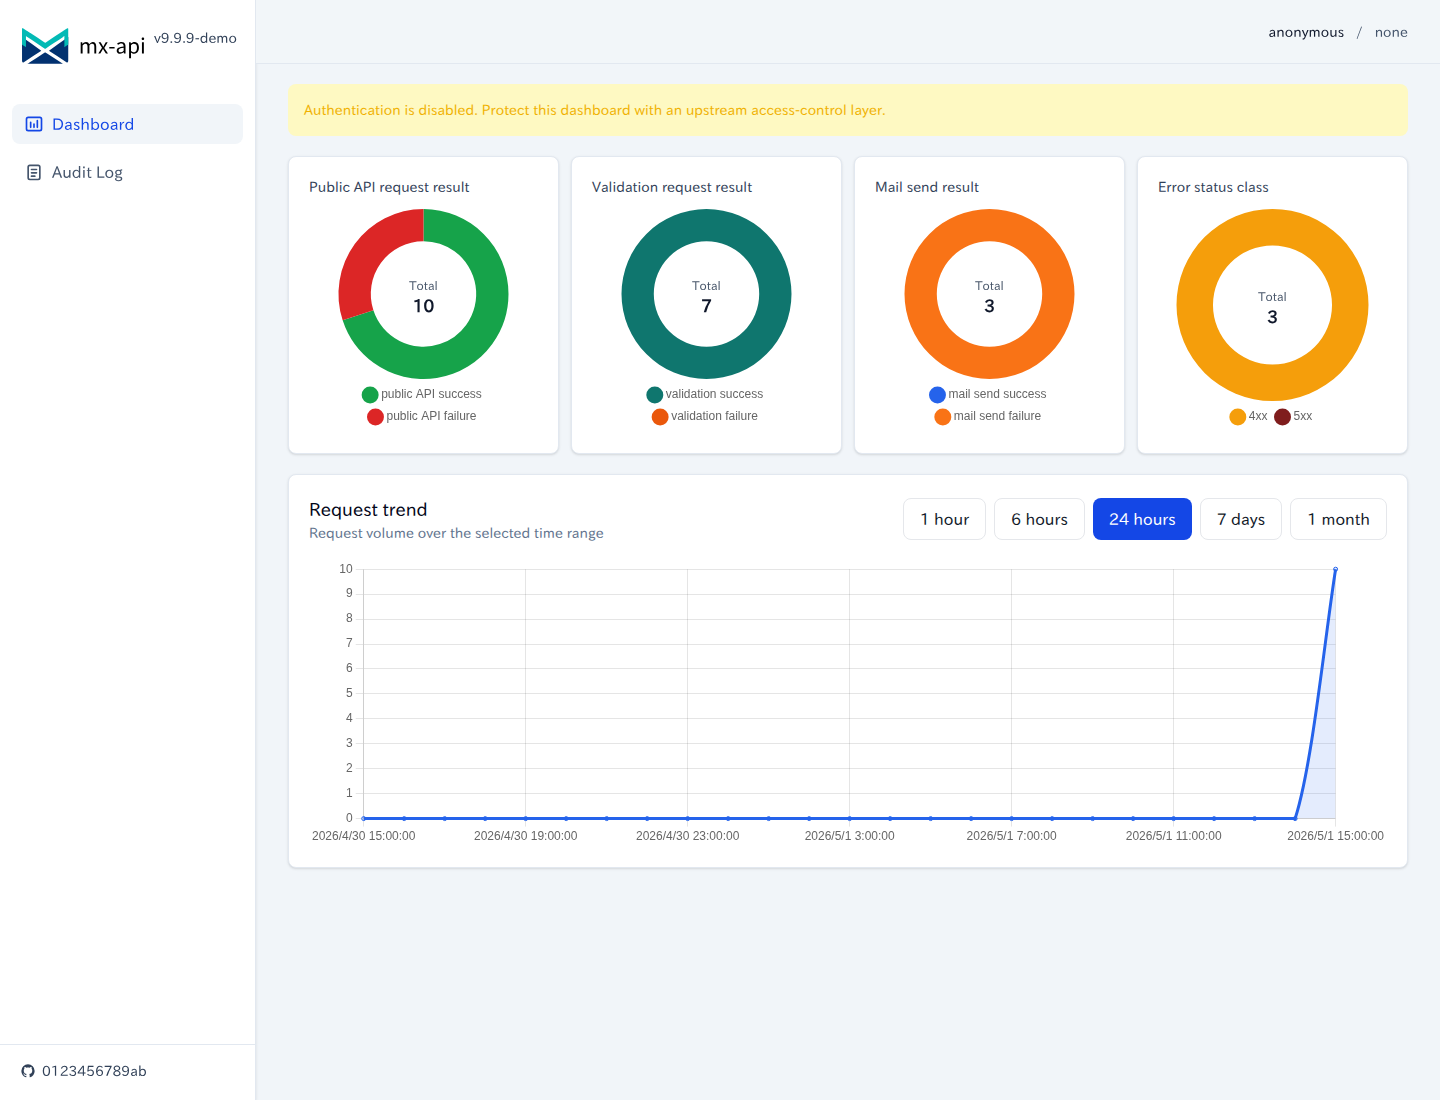
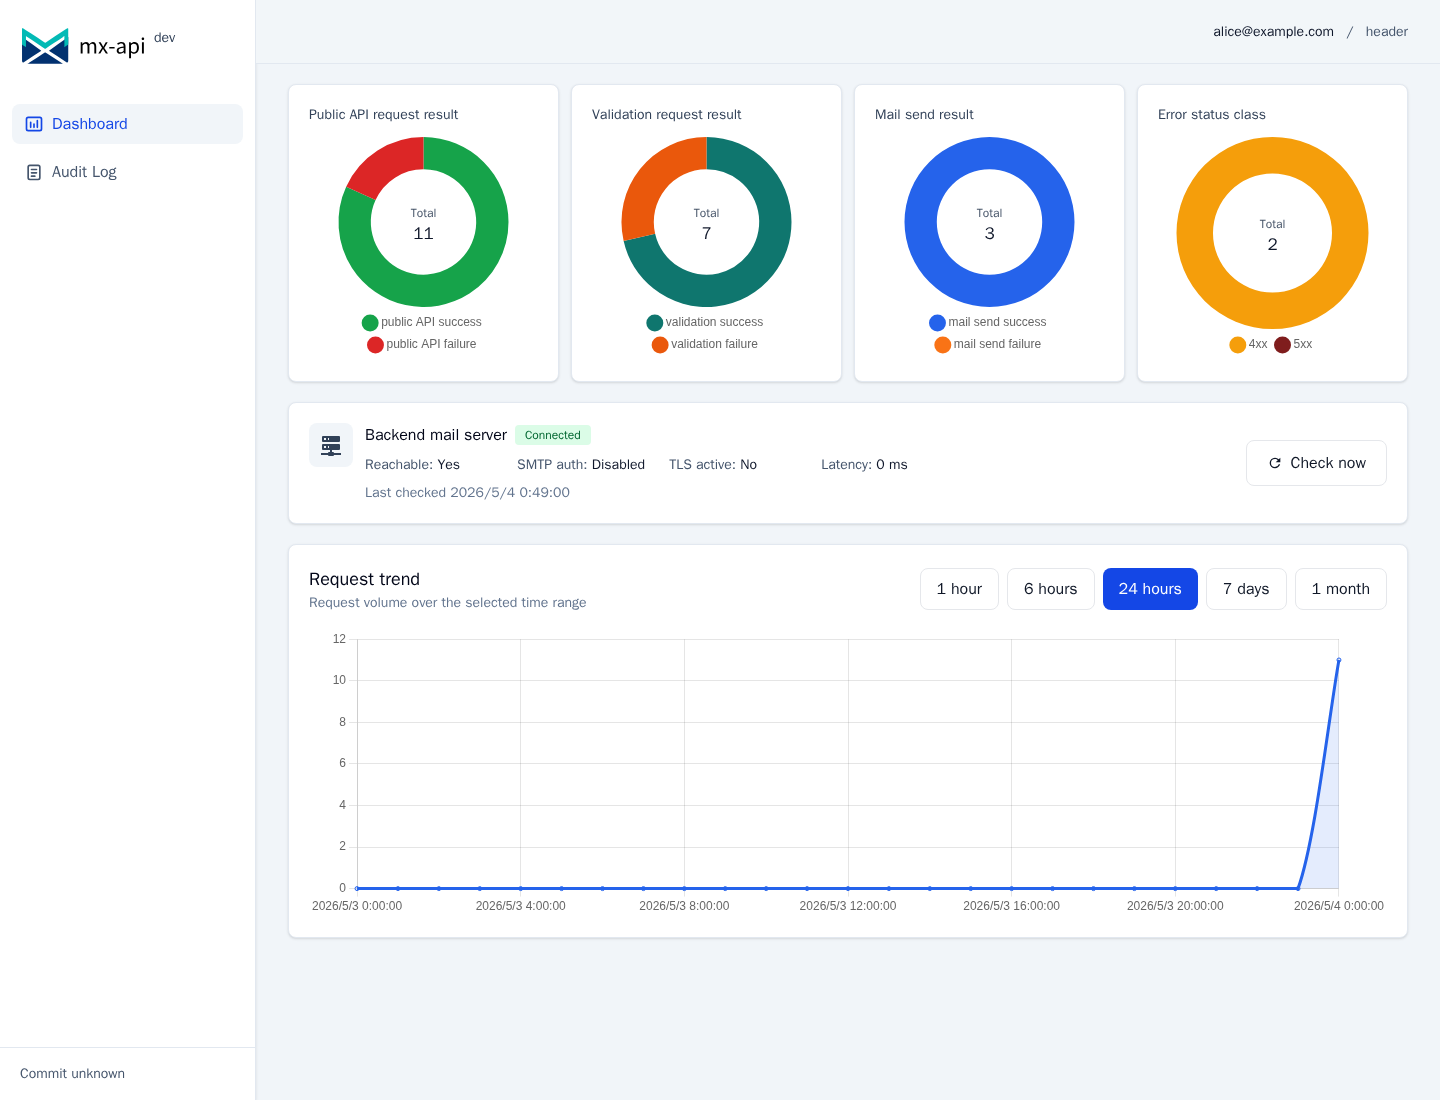
docs: update admin dashboard screenshot

diff --git a/frontend/src/App.svelte b/frontend/src/App.svelte
@@ -509,7 +509,7 @@
                     </div>
                   </div>
                 </div>
-                <Button color="alternative" disabled={me?.authDisabled || mailServerChecking} onclick={loadMailServerCheck}>
+                <Button class="gap-2" color="alternative" disabled={me?.authDisabled || mailServerChecking} onclick={loadMailServerCheck}>
                   <Icon icon="mdi:refresh" class={`h-4 w-4 ${mailServerChecking ? 'animate-spin' : ''}`} />
                   <span>{mailServerChecking ? 'Checking' : 'Check now'}</span>
                 </Button>
